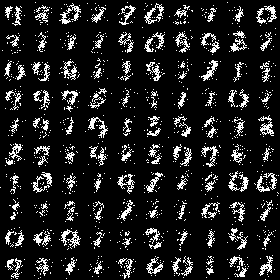
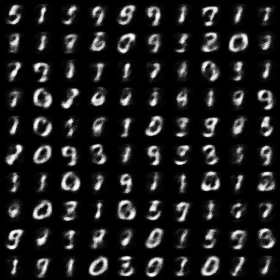
results

diff --git a/RBMs/rbm.py b/RBMs/rbm.py
@@ -89,12 +89,12 @@ class rbm:
 
 
 if __name__ == '__main__':
-    rbm = rbm(784, 1024, 2e-4, 5, './results/rbm/')
+    rbm = rbm(784, 1024, 1e-3, 10, './results/rbm/')
     if not rbm.load():
         rbm.fit(mnist, 10)
 
     # 随机生成
-    pv, v = rbm.inference(100, 2000)
+    pv, v = rbm.inference(100, 200)
     for t, im in enumerate([pv, v]):
         images = np.reshape(im.cpu().numpy(), [-1, 28, 28, 1])
         imsave_('./results/rbm/mnist_{}.png'.format(t), imcombind_(images))

diff --git a/RBMs/README.md b/RBMs/README.md
@@ -1,2 +1,4 @@
 # 受限玻尔兹曼机的简单实现
     1. rbm
+    ![](https://github.com/yxue3357/MyResearchCodes/raw/master/RBMs/results/rbm_fashion.png)
+    ![](https://github.com/yxue3357/MyResearchCodes/raw/master/RBMs/results/rbm_mnist.png)
